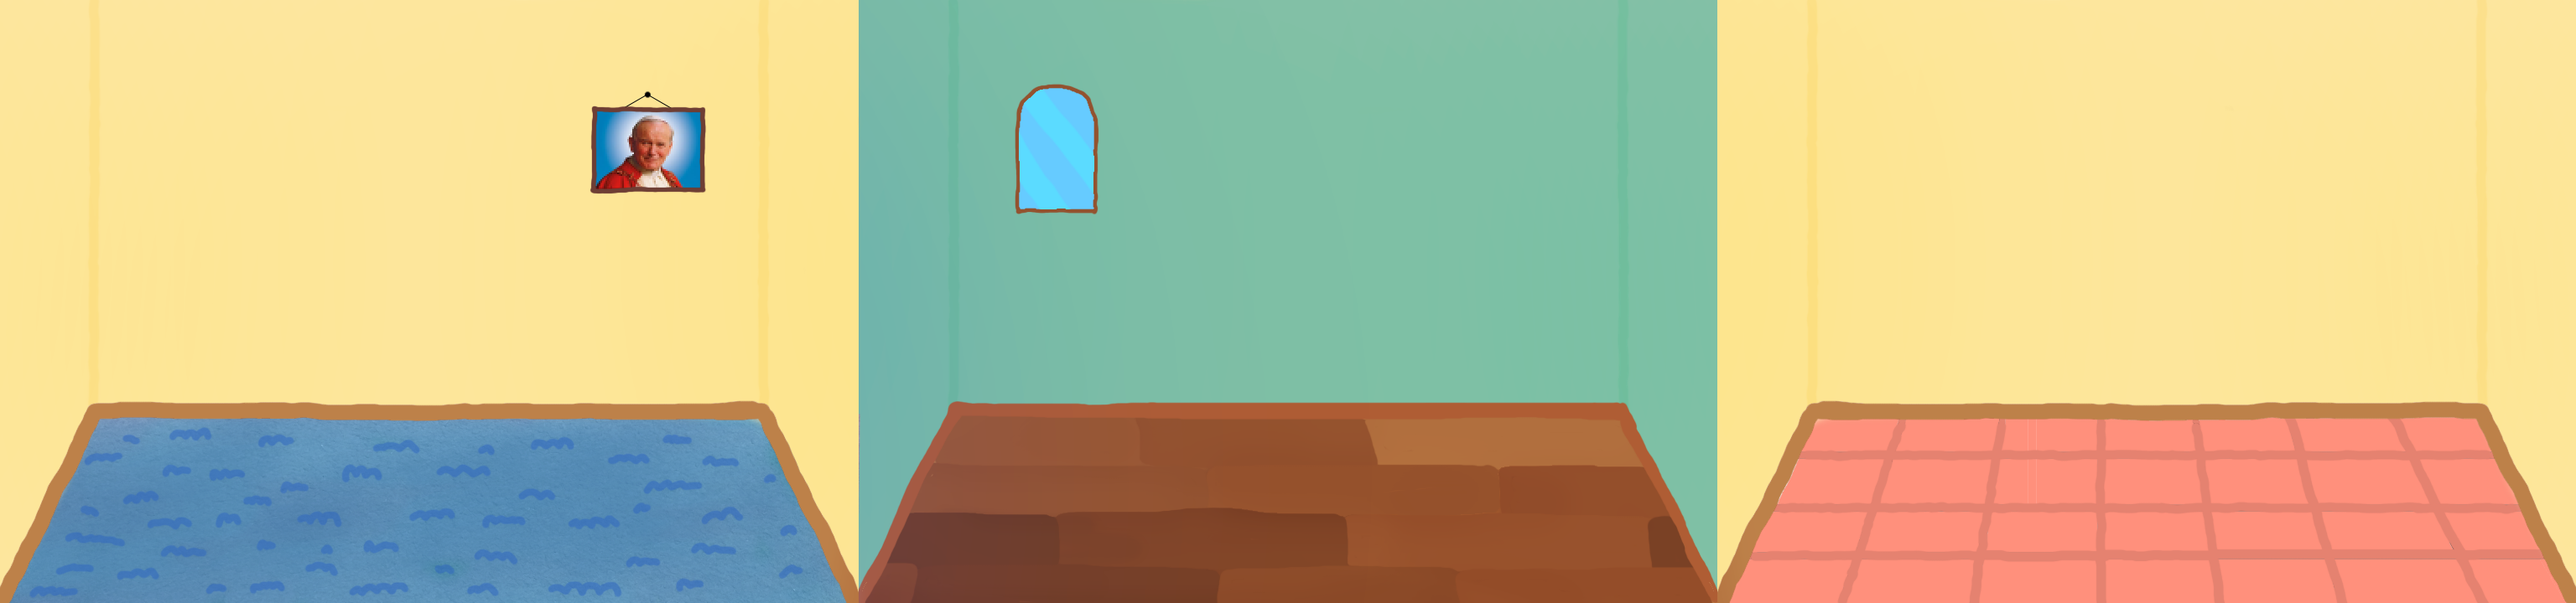
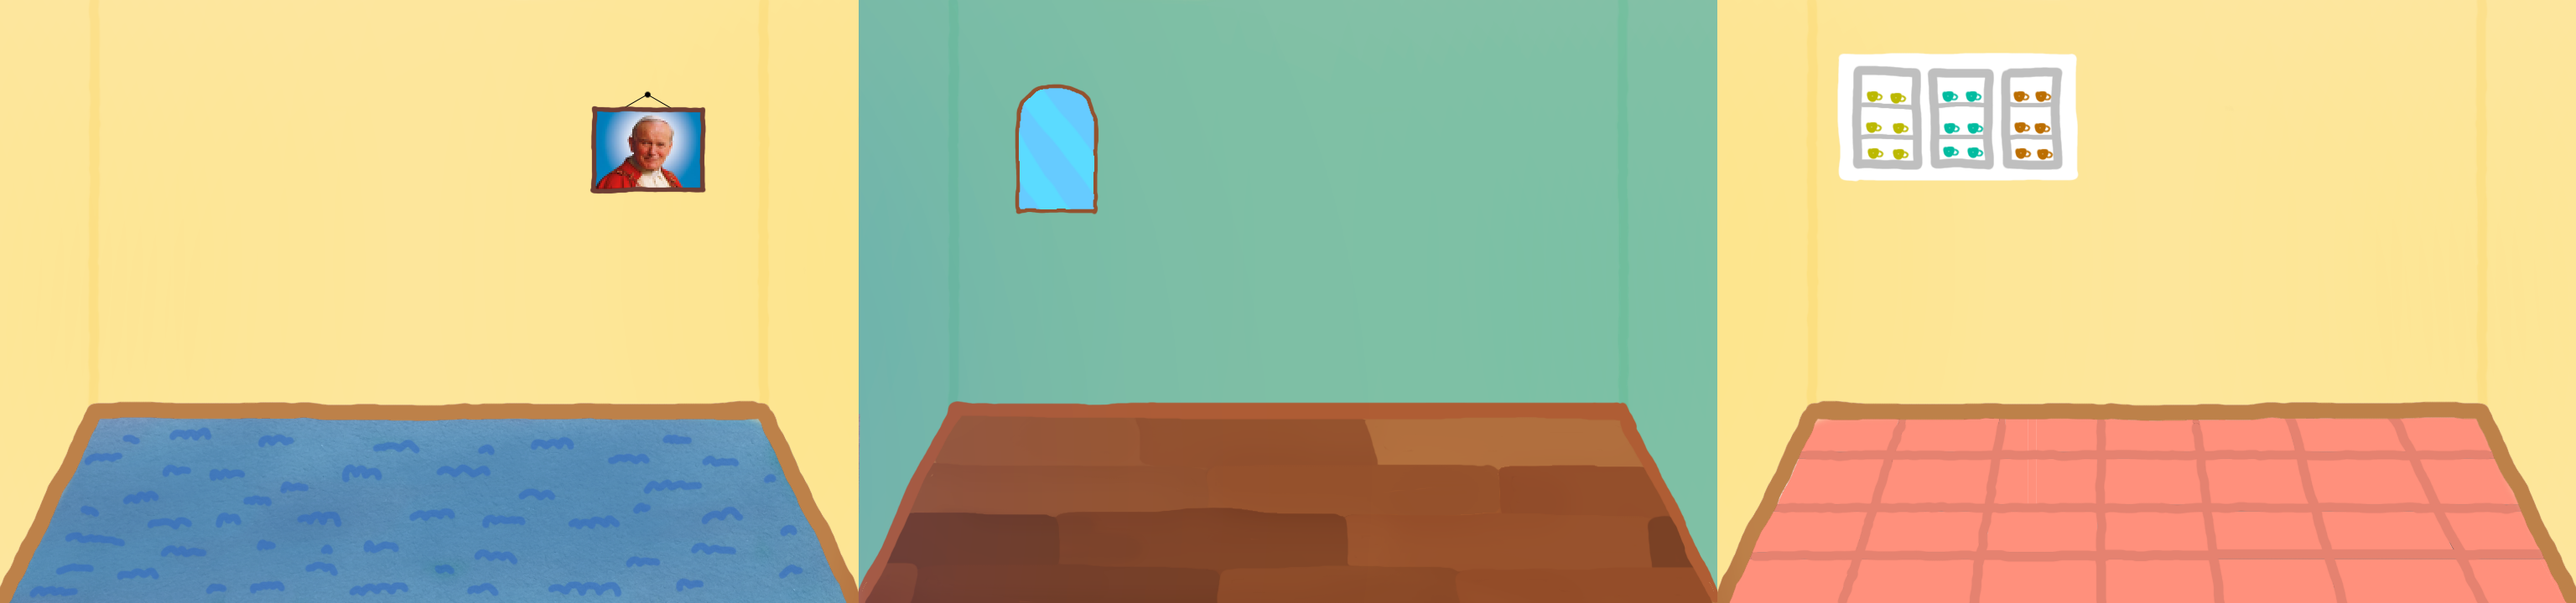
no message

Changed region(s): [[0.6875, 0.0611, 0.8125, 0.3056]]

diff --git a/game.cpp b/game.cpp
@@ -328,6 +328,8 @@ void Game::createObjects(){
     items["table"]->setPosition(986, 478);
     items["glass"] = new ItemGlass(anims["glass"], 0.5f);
     items["glass"]->setPosition(893, 430);
+    items["glass2"] = new ItemGlass(anims["glass"], 0.5f);
+    items["glass2"]->setPosition(2891, 300);
 
     items["bed"] = new ItemBed(anims["bed"], 1.0f); // watch it!
     items["bed"]->setPosition(151, 583);
@@ -335,6 +337,8 @@ void Game::createObjects(){
     items["pot"]->move(700, 420);
     items["pot2"] = new ItemPot(anims["pot"], 1.0f);
     items["pot2"]->move(300, 500);
+    items["pot3"] = new ItemPot(anims["pot"], 1.0f);
+    items["pot3"]->move(3635, 480);
 
     ItemClockHand* itemClockHand = new ItemClockHand(anims["clockHand"], 0.999999f);
     items["clockHand"] = itemClockHand;
@@ -365,7 +369,7 @@ void Game::createObjects(){
     items["doorLeftThirdRoom"]->move(70 + 2560, 470);
 
     items["sink"] = new ItemSink(anims["sink"], this, 1.0f);
-    items["sink"]->move(800+1280, Settings::floorLevel - 100);
+    items["sink"]->move(3021, 404);
 
     items["trash1"] = new ItemTrash(anims["trash"], 1.f);
     items["trash1"]->move(1580, Settings::floorLevel-70);

diff --git a/items/itemRadio.cpp b/items/itemRadio.cpp
@@ -57,7 +57,7 @@ void ItemRadio::update(sf::Time dt){
     if(getPosition().x > Settings::windowSize.x*2)
         targetRoom=2;
     if(Settings::room == targetRoom){
-        game->music.setVolume(20);
+        game->music.setVolume(10);
     }
     else{
         game->music.setVolume(5);
